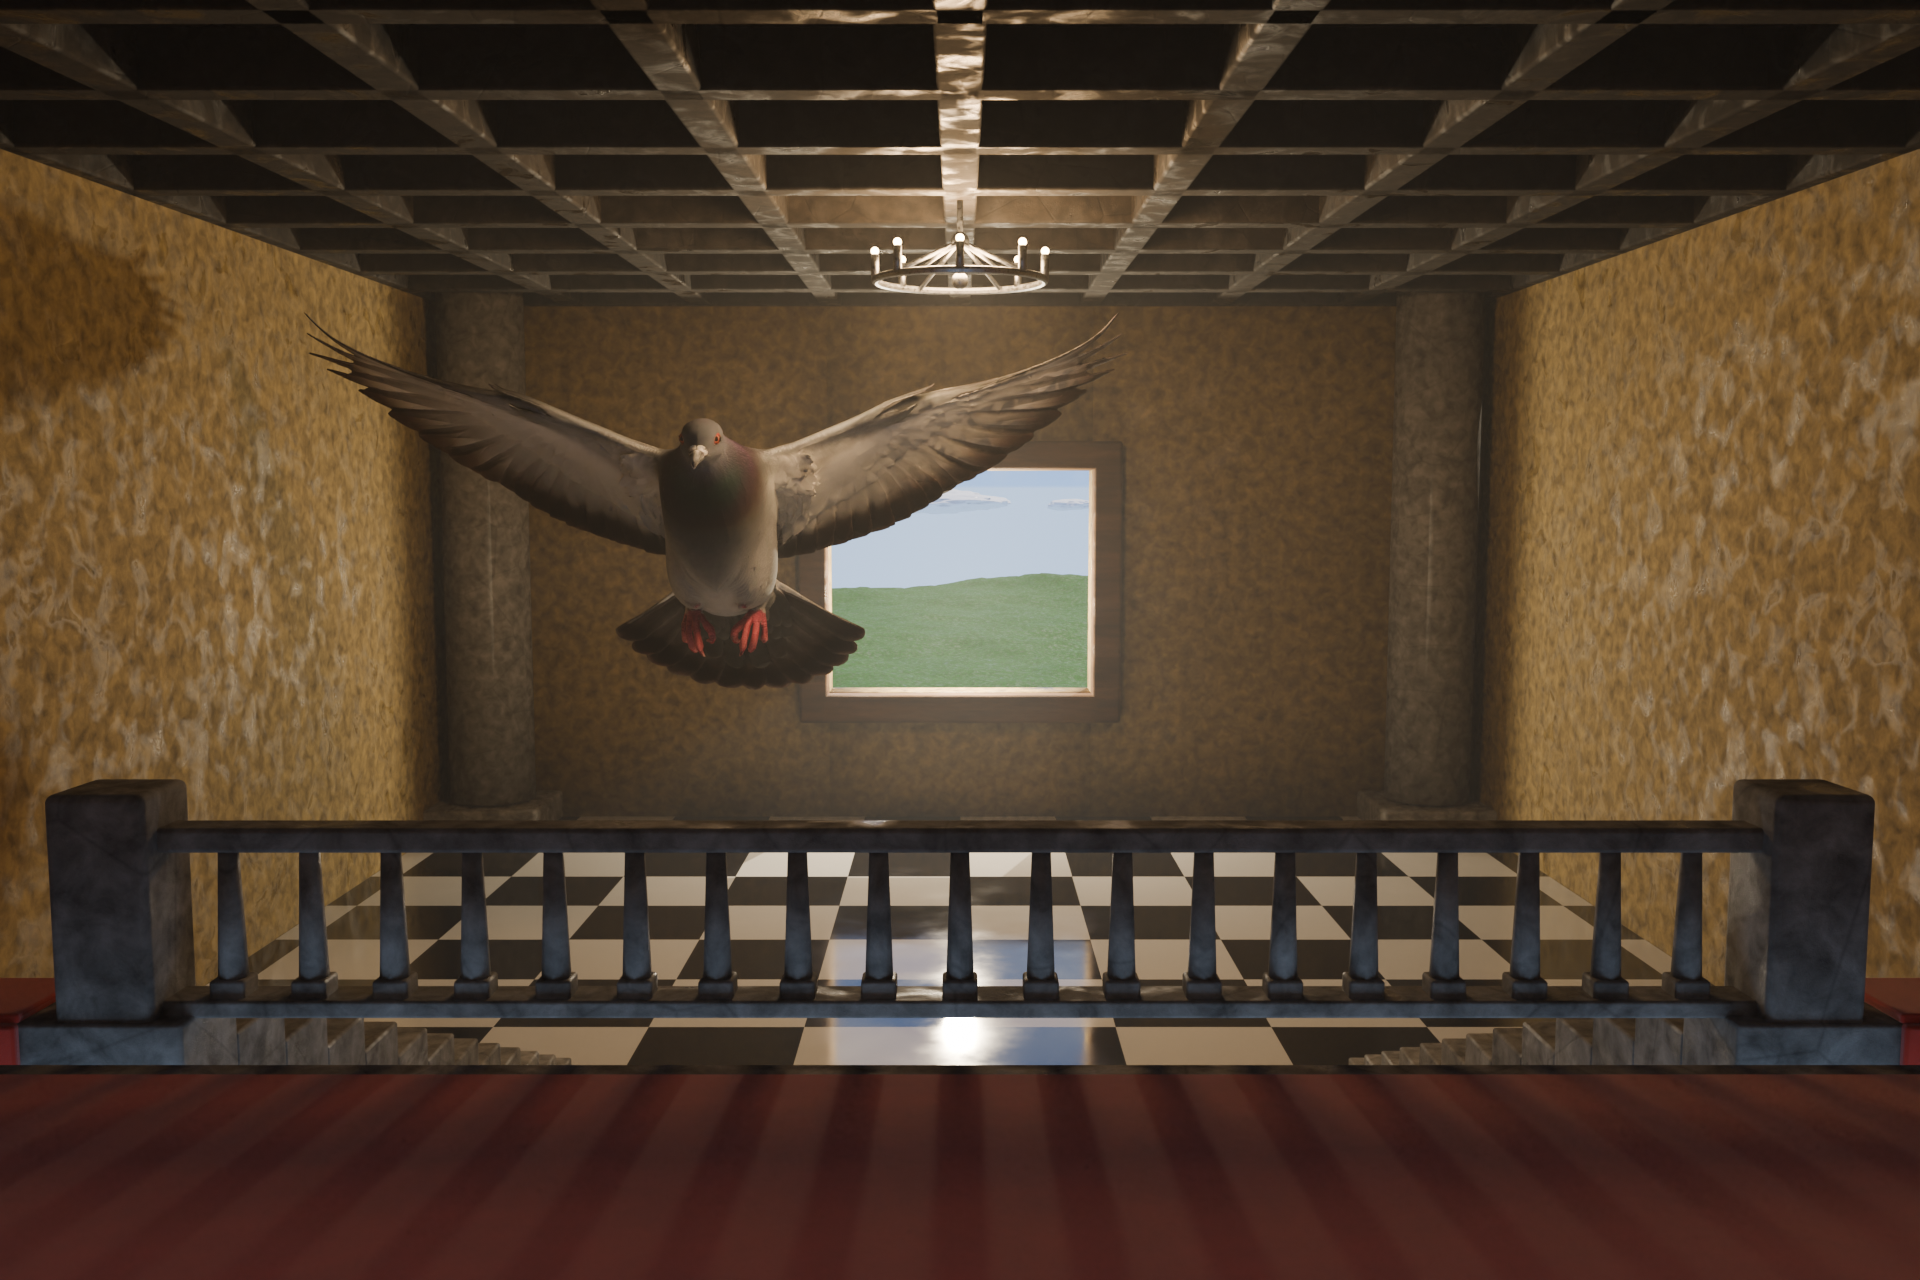
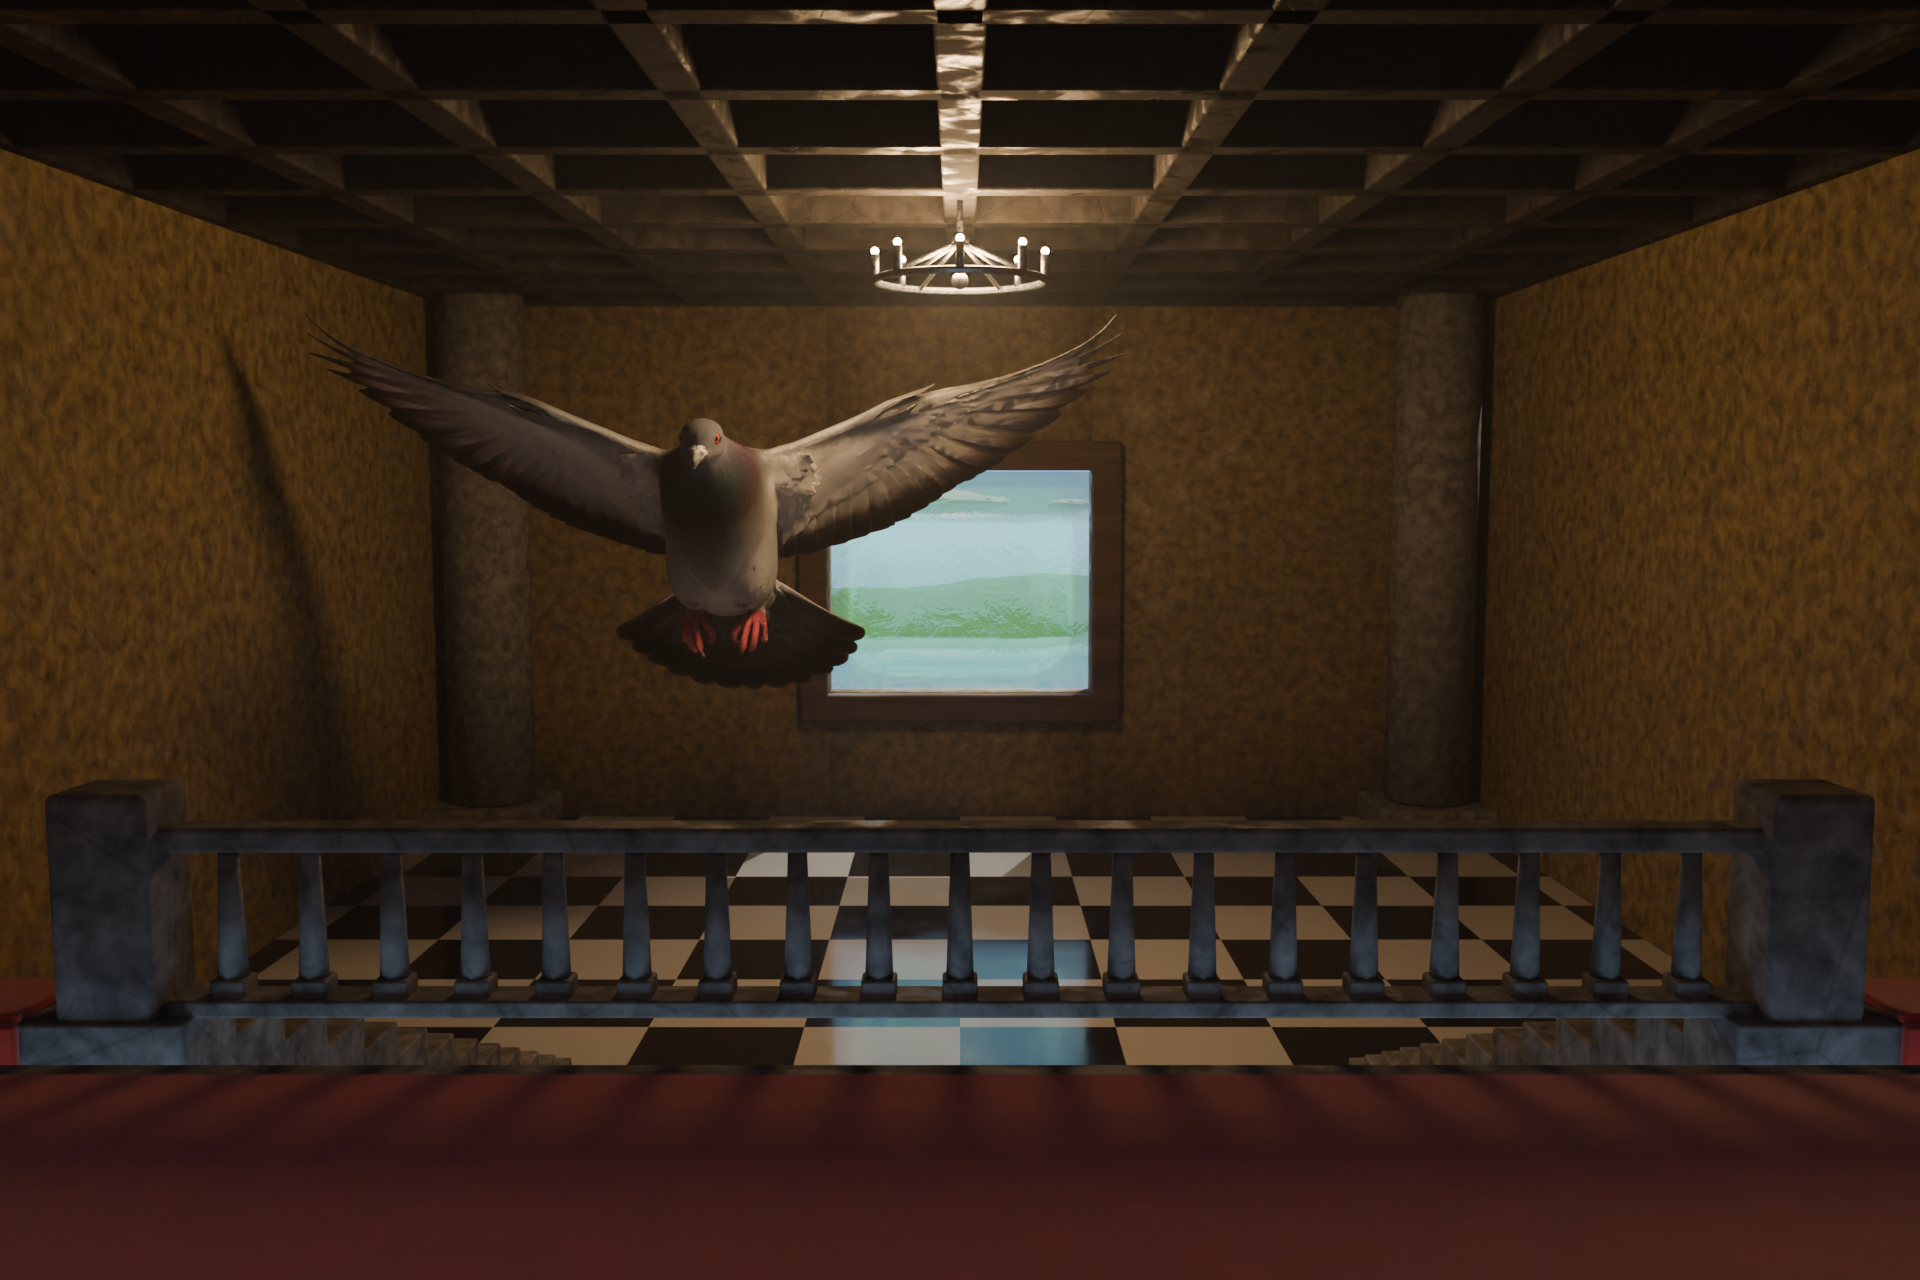
A film over the opening, so it stops being a window
`oil_film` does three things and each needs its own mechanism.

Distortion is a normal, not a texture. Two noise fields at different scales
into chained bumps, so what you see through the panel bends and swims -- a
colour texture on glass only tints what is behind it and leaves the geometry
dead straight, which is the tell.

The prism is three refractions rather than one. Cycles is not spectral, so a
single refraction cannot split anything; what it can do is refract red,
green and blue at three slightly different indices and add them back, and
wherever the surface bends hard enough for those paths to diverge the seam
between them comes apart into colour. `spread` is that gap, and the whole
effect lives in it. This build has no Dispersion socket, so the split has to
be built rather than switched on.

The oil is thin-film interference, which is real and which this build does
have -- `Thin Film Thickness` in nanometres on a glass BSDF, driven by noise
so it varies across the surface. That is the same physics as a puddle in a
car park: light off the top of the film arriving out of step with light off
the bottom, and which wavelength cancels depends on how far apart they are.
Under 200 nm the film is thinner than the light and the colour washes out;
over about a thousand the bands crowd tighter than a pixel and average grey.

Three corrections, and the useful one is the last:

  - Ripple 0.052 with roughness 0.05 was frosted bathroom glass. A filter
[…]

diff --git a/art/blender/look.py b/art/blender/look.py
@@ -879,6 +879,146 @@ def glowing(name, colour=CANDLE, strength=25.0):
     return mat
 
 
+def oil_film(name="Oil film", tint=(0.90, 0.95, 1.00, 1.00), ripple=0.055,
+             swirl=2.2, spread=0.030, thickness=(240.0, 980.0),
+             roughness=0.055, blend=0.46, clarity=0.74, seed=0.0):
+    """A membrane over an opening: translucent, rippling, and prismatic.
+
+    Three things at once, and each needs a different mechanism.
+
+    **Distortion** is a normal, not a texture. Two noise fields at different
+    scales go to chained bump nodes, so what you see through the panel bends
+    and swims -- a colour texture on glass would only tint what is behind it
+    and leave the geometry dead straight, which is the tell.
+
+    **The prism** is three refractions rather than one. Cycles is not
+    spectral, so a single refraction cannot split anything; what it can do is
+    refract red, green and blue at three slightly different IORs and add them
+    back together, and wherever the surface bends hard enough for those three
+    paths to diverge, the seam between them comes apart into colour. That is
+    what `spread` is: the gap between the three indices, and the whole effect
+    lives in it.
+
+    **The oil** is thin-film interference, which is a real thing this build
+    can do -- `Thin Film Thickness` in nanometres on a glass BSDF. Vary the
+    thickness across the surface with noise and you get the bands you see on
+    a puddle in a car park, because that is the same physics: light reflected
+    off the top of the film arriving out of step with light reflected off the
+    bottom, and which wavelength cancels depends on how far apart they are.
+
+    `clarity` is how much of it simply lets the view through. High, and
+    it has to be: the bending is the seasoning, not the dish.
+
+    `blend` is how much of the oil is mixed over the prism. Most of the
+    interest is in the refraction; the film is a wash over it.
+
+    So `thickness` is in nanometres and the range matters. Under about 200 nm
+    the film is thinner than the light and the colours wash out; over about a
+    thousand the bands crowd tighter than a pixel and average back to grey.
+    """
+    mat, tree, bsdf, output = _new_material(name)
+    tree.nodes.remove(bsdf)
+
+    coord = tree.nodes.new("ShaderNodeTexCoord")
+    coord.location = (-1500, 0)
+    mapping = tree.nodes.new("ShaderNodeMapping")
+    mapping.location = (-1320, 0)
+    sock(mapping, "Location", (seed * 2.7, seed * 1.9, seed * 3.3))
+    tree.links.new(coord.outputs["Object"], mapping.inputs["Vector"])
+    coords = mapping.outputs["Vector"]
+
+    # --- the swim -------------------------------------------------------
+    slow = _noise(tree, swirl, detail=5.0, roughness=0.55,
+                  location=(-1100, 240), distortion=1.4)
+    tree.links.new(coords, slow.inputs["Vector"])
+    quick = _noise(tree, swirl * 5.5, detail=6.0, roughness=0.5,
+                   location=(-1100, -20), distortion=0.8)
+    tree.links.new(coords, quick.inputs["Vector"])
+    heave = tree.nodes.new("ShaderNodeBump")
+    heave.location = (-820, 160)
+    sock(heave, "Strength", 0.85)
+    sock(heave, "Distance", ripple)
+    tree.links.new(out(slow, ("Fac", "Color")), heave.inputs["Height"])
+    chop = tree.nodes.new("ShaderNodeBump")
+    chop.location = (-620, 60)
+    sock(chop, "Strength", 0.40)
+    sock(chop, "Distance", ripple * 0.30)
+    tree.links.new(out(quick, ("Fac", "Color")), chop.inputs["Height"])
+    tree.links.new(heave.outputs["Normal"], chop.inputs["Normal"])
+    bent = chop.outputs["Normal"]
+
+    # --- the prism ------------------------------------------------------
+    stack = None
+    for index, (channel, shift) in enumerate(
+            (((1.0, 0.0, 0.0, 1.0), -spread),
+             ((0.0, 1.0, 0.0, 1.0), 0.0),
+             ((0.0, 0.0, 1.0, 1.0), spread))):
+        band = tree.nodes.new("ShaderNodeBsdfRefraction")
+        band.location = (-300, 260 - index * 180)
+        sock(band, "Color", tuple(c * t for c, t in zip(channel, tint)))
+        sock(band, "Roughness", roughness)
+        sock(band, "IOR", 1.46 + shift)
+        tree.links.new(bent, band.inputs["Normal"])
+        if stack is None:
+            stack = band.outputs["BSDF"]
+            continue
+        add = tree.nodes.new("ShaderNodeAddShader")
+        add.location = (-60, 200 - index * 150)
+        tree.links.new(stack, add.inputs[0])
+        tree.links.new(band.outputs["BSDF"], add.inputs[1])
+        stack = add.outputs["Shader"]
+
+    # --- the oil --------------------------------------------------------
+    grease = _noise(tree, swirl * 1.7, detail=7.0, roughness=0.6,
+                    location=(-1100, -300), distortion=2.2)
+    tree.links.new(coords, grease.inputs["Vector"])
+    depth = tree.nodes.new("ShaderNodeMapRange")
+    depth.location = (-820, -300)
+    sock(depth, "From Min", 0.25)
+    sock(depth, "From Max", 0.75)
+    sock(depth, "To Min", thickness[0])
+    sock(depth, "To Max", thickness[1])
+    tree.links.new(out(grease, ("Fac", "Color")), depth.inputs["Value"])
+
+    slick = tree.nodes.new("ShaderNodeBsdfGlass")
+    slick.location = (-300, -300)
+    sock(slick, "Color", tint)
+    sock(slick, "Roughness", roughness * 1.6)
+    sock(slick, "IOR", 1.46)
+    sock(slick, "Thin Film IOR", 1.52)
+    tree.links.new(depth.outputs["Result"], slick.inputs["Thin Film Thickness"])
+    tree.links.new(bent, slick.inputs["Normal"])
+
+    # --- and mostly out of the way ---------------------------------------
+    #
+    # Refraction alone was the wrong shape for this. A slab that bends every
+    # ray also rearranges everything behind it -- ground turning up above
+    # sky, one lamp arriving as five -- and a filter is supposed to sit over
+    # a view rather than replace it. So most of the surface is a plain
+    # Transparent BSDF, which passes what is behind it through untouched and
+    # tinted, and the refraction is the minority that bends. What you get is
+    # the real landscape with a swimming, doubled ghost of itself over it,
+    # which is what looking through a film actually looks like.
+    clear = tree.nodes.new("ShaderNodeBsdfTransparent")
+    clear.location = (-300, -560)
+    sock(clear, "Color", tint)
+
+    lens = tree.nodes.new("ShaderNodeMixShader")
+    lens.location = (60, -160)
+    sock(lens, "Fac", clarity)
+    tree.links.new(stack, lens.inputs[1])
+    tree.links.new(clear.outputs["BSDF"], lens.inputs[2])
+
+    blend_fac = blend
+    blend = tree.nodes.new("ShaderNodeMixShader")
+    blend.location = (300, 0)
+    sock(blend, "Fac", blend_fac)
+    tree.links.new(lens.outputs["Shader"], blend.inputs[1])
+    tree.links.new(slick.outputs["BSDF"], blend.inputs[2])
+    tree.links.new(blend.outputs["Shader"], output.inputs["Surface"])
+    return mat
+
+
 def metal(name="Steel", colour=(0.400, 0.425, 0.455, 1.0), roughness=0.30,
           pitting=0.35, seed=0.0):
     """Metal, which needs `Metallic` at 1 and nothing else pretending.
@@ -1802,7 +1942,7 @@ __all__ = [
     "WEAR", "worn_edge", "bryce_sky", "wedge",
     "wipe", "use_cycles", "view_transform", "render_to", "camera",
     "area_light", "point_light", "sun", "sock", "out",
-    "damp_stone", "rusted_iron", "heavy_cloth", "glowing", "scrying_glass", "sphere", "inp", "metal", "checker", "window_light", "sea_water", "foliage", "subdivide_adaptively", "still_water",
+    "damp_stone", "rusted_iron", "heavy_cloth", "glowing", "scrying_glass", "sphere", "inp", "oil_film", "metal", "checker", "window_light", "sea_water", "foliage", "subdivide_adaptively", "still_water",
     "block", "roughen", "weather", "fog", "haze", "sky_gradient",
     "PITCH", "SOOT", "STONE_DARK", "STONE_LIGHT", "MOSS_DEEP", "MOSS_LIT",
     "RUST", "RUST_DEEP", "IRON", "BRASS", "CLOTH_OXBLOOD", "CANDLE",

diff --git a/art/blender/scenes.py b/art/blender/scenes.py
@@ -2328,6 +2328,32 @@ def painted_hall(path):
              rotation=(math.radians(-9.0), math.radians(-19.0),
                        math.radians(-25.0)), name="Pigeon")
 
+    # A membrane across the opening, so it stops being a window.
+    #
+    # Set into the wall's own thickness rather than hung in front of the
+    # frame: a pane on the room side would catch the chandelier and read
+    # as glass in a frame, where the whole point is that the surface
+    # belongs to the picture rather than to the joinery.
+    #
+    # Gentle, and clear. At ripple 0.052 with roughness 0.05 the panel
+    # was frosted bathroom glass: the hill behind it stopped being
+    # readable, and a filter you cannot see through is a wall. What is
+    # wanted is a surface that is obviously there and obviously has
+    # something behind it -- so the swim is broad and slow rather than
+    # fine, and the refraction is nearly clear.
+    #
+    # And 12mm thick, not 50. A refracting slab offsets everything
+    # behind it by an amount proportional to its thickness, and at 50mm
+    # with a rippled normal the offset varied enough across the panel to
+    # shuffle the horizon around -- ground appearing above sky. Thin
+    # enough and the swim is a swim rather than a rearrangement.
+    look.block((0, DEEP + 0.42, VIEW_Z + VIEW_H / 2),
+               (VIEW_W - 0.04, 0.012, VIEW_H - 0.04),
+               look.oil_film("Skin", ripple=0.016, swirl=1.4, spread=0.055,
+                             thickness=(260.0, 940.0), roughness=0.012,
+                             blend=0.26, clarity=0.76, seed=7.0),
+               bevel=0.0, name="Skin")
+
     # --- light -----------------------------------------------------------
     #
     # Two sources for the whole picture: the wheel of candles, and the sun
@@ -2340,7 +2366,7 @@ def painted_hall(path):
     # life size rather than the two-and-a-half-times smear any lamp in this
     # room would make of it. Eleven metres of bird across a floor whose tiles
     # are just under two.
-    look.sun((math.radians(-41.8), 0, math.radians(-18.0)), energy=4.2,
+    look.sun((math.radians(-41.8), 0, math.radians(-18.0)), energy=5.6,
              angle=0.006, color=(1.0, 0.885, 0.680))
     # 3.4, not 4.6: the grass is translucent and backlit through this
     # opening, so it lights up rather than merely being lit, and at 4.6
@@ -2369,21 +2395,14 @@ def painted_hall(path):
                    cloud_colour=(0.98, 0.98, 0.99), cloud_amount=0.66,
                    cloud_scale=2.8, cloud_sharpness=(0.44, 0.60), seed=11.0)
 
-    # And a lamp immediately behind the opening, which is the tidiest way
-    # to get a beam: the wall is the barn door. Everything it throws at
-    # the masonry stops there and only the cone through the hole gets in,
-    # so the shape of the light is the shape of the frame without a spot
-    # cone having to be aimed at anything. A hint of green in it, from the
-    # field it is supposed to be coming off.
-    look.point_light((0.0, 24.62, VIEW_Z + VIEW_H * 0.45), energy=3400,
-                     radius=0.30, color=(1.0, 0.820, 0.560))
+    # There is no lamp behind the opening any more, and there should not be.
+    # A point source behind a rippled film beads into a dozen images of
+    # itself, one per facet, and widening it to smear them back together
+    # turned a 2.1 m source five metres behind a 5.2 m hole into the entire
+    # view. The sun already comes through here and it is parallel, so it
+    # cannot bead: it casts one beam and one life-size shadow, which is what
+    # the lamp was standing in for.
 
-    # The air stops at the wall. Left running to y=32 it enclosed the beam
-    # lamp, which then lit the volume around itself and hung a glowing ball
-    # in the middle of the opening -- a lamp is invisible to a camera until
-    # you give it something to shine on, and fog three feet away is exactly
-    # that. It ends at 23 now, a foot short of the masonry, so the beam
-    # becomes visible only after it is through the hole.
     look.haze(size=36, density=0.0040, colour=(0.55, 0.62, 0.72),
               origin=(0, 5.0, 5.0), height=13.0)
 
